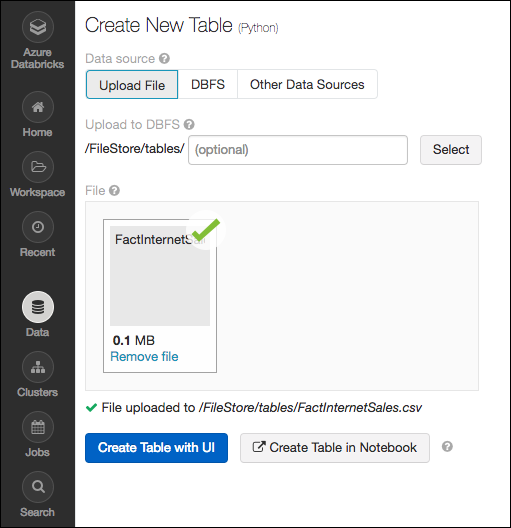
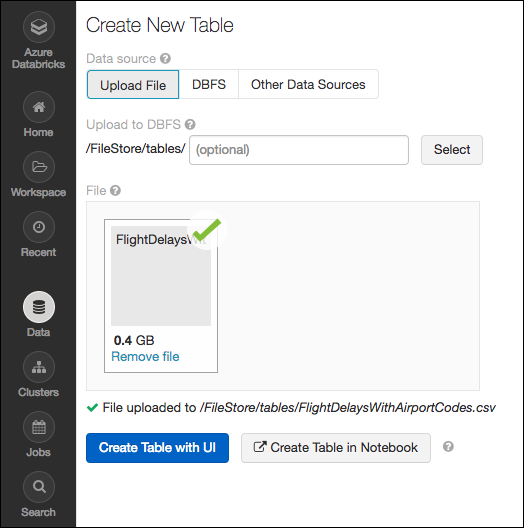
Updated Data sources article

diff --git a/data-sources/data-sources-overview.md b/data-sources/data-sources-overview.md
@@ -206,6 +206,42 @@ To create a mount point for an Azure Data Lake Store, complete the following:
     dbutils.fs.unmount("/mnt/<mount-name>")
     ```
 
+## Upload files directly into Azure Databricks tables
+
+Before moving on to the next Azure data source, we are going to highlight another way to get data directly into Azure Databricks: upload CSV files directly into Azure Databricks global tables.
+
+> Make sure your cluster is started before beginning the steps below, as it will be used to preview the data uploaded from the CSV file.
+
+1. Three sample files to be used for this can be found at <http://bit.ly/2wGAqrl>. Download the ZIP file, and extract the three files contained within:
+
+    - FlightDelaysWithAirportCodes.csv
+    - FlightWeatherWithAirportCodes.csv
+    - AirportCodeLocationLookupClean.csv
+
+2. Open your Azure Databricks workspace in the [Azure portal](https://portal.azure.com).
+
+3. In your workspace, select **Data** from the left-hand menu, select **Default** under Databases, and then select the plus (+) icon in the top right corner, next to Tables.
+
+    ![In the Azure Databricks workspace, Data is selected in the left-hand menu, and default is highlighted under Databases.](media/azure-databricks-workspace-databases.png "Azure Databricks databases")
+
+4. Select **Upload File** under Create New Table, and then drag and drop the `FlightDelaysWithAirportCodes.csv` file into the file area. (Note: Clicking Select to browse to the file won't work, because it attempts to find files in the /FileStore/tables/ directory in DBFS.)
+
+    ![In the Create New Table dialog in Azure Databricks, Upload File is selected and the FlightDelaysWithAirportCodes.csv file has been dropped in the file area.](media/azure-databricks-workspace-databases-create-new-table.png "Create new table")
+
+5. Select **Create Table with UI**, and then select your cluster to preview the table and select **Preview Table**.
+
+6. Change the Table Name to "flight_delays_with_airport_codes" (remove "_csv"), check the **First row is header** and **Infer schema** boxes, and then select **Create Table**.
+
+    > For the demo, we will use **Infer schema** to assign data types, but for real-world scenarios, you would want to evaluate each field, and the data type being assigned, and make sure they are correct for your data.
+
+    ![In the Specify Table Attributes section, the Table Name is specified as "flight_delays_with_airport_codes", and the First row is header and Infer schema check boxes are checked.](media/azure-databricks-workspace-create-table-specify-attributes.png "Specify Table Attributes")
+
+7. Select **Data** again from the left-hand menu, and you will notice **flight_delays_with_airport_codes** now listed under tables.
+
+8. Repeat steps 3 - 6 above for the `FlightWeatherWithAirportCodes.csv` and `AirportCodeLocationLookupClean.csv` files, changing the name in step 6 appropriately for each file.
+
+9. Each of the tables is now accessible from your cluster, as will be demonstrated below in the Azure Cosmos DB and SQL Data Warehouse examples below.
+
 ## Cosmos DB
 
 [Azure Cosmos DB](https://azure.microsoft.com/en-us/services/cosmos-db/) is Microsoft’s globally distributed, multi-model database. Azure Cosmos DB enables you to elastically and independently scale throughput and storage across any number of Azure’s geographic regions. It offers throughput, latency, availability, and consistency guarantees with comprehensive service level agreements (SLAs). Azure Cosmos DB provides APIs for the following data models, with SDKs available in multiple languages:
@@ -216,125 +252,147 @@ To create a mount point for an Azure Data Lake Store, complete the following:
 - Graph (Gremlin) API
 - Table API
 
+To demonstrate how to connect to Cosmos DB, and read and write data, you can following along in the step-by-step walk-through below.
+
 ### Prerequisites
 
-The following steps need to be performed prior to connecting Azure Databricks with Azure Databricks.
+Before continuing with the walk-through, you need the following:
+
+1. An Azure Cosmos DB in your subscription.
+2. Within your Cosmos DB instance, create a new database named "demo".
+3. Add a collection named "airport_code_location_lookup" to the "demo" database.
+4. You uploaded the files as described in [Upload files directly into Azure Databricks tables](#upload-files-directly-into-azure-databricks-tables).
+
+Once your Cosmos DB is provisioned, the following steps need to be performed prior to connecting Azure Databricks with Azure Databricks.
 
 - A Databricks workspace with an active cluster.
-- Prior to connecting your Azure Databricks instance with Azure Cosmos DB, you need to include the Azure Cosmos DB Spark JAR, by following the instructions provided with the [Azure Cosmos DB Spark Connector](https://github.com/Azure/azure-cosmosdb-spark). The connector requires Databricks Runtime 3.4 or higher.
-- Once you've obtained the JAR, upload the Java JAR or Scala JAR to Databricks by following the [Upload a Java JAR or Scala JAR](https://docs.azuredatabricks.net/user-guide/libraries.html#uploading-libraries) instructions.
+- Prior to connecting your Azure Databricks instance with Azure Cosmos DB, you need to include the Azure Cosmos DB Spark JAR, by following these instructions:
+  - Download the [azure-cosmosdb-spark_2.2.0_2.11 (1.11) library](http://repo1.maven.org/maven2/com/microsoft/azure/azure-cosmosdb-spark_2.2.0_2.11/1.1.1/azure-cosmosdb-spark_2.2.0_2.11-1.1.1-uber.jar) (The connector requires Databricks Runtime 3.4 or higher.)
+  - Upload the downloaded JAR files to Databricks following the instructions in [Upload a Java JAR or Scala JAR](https://docs.azuredatabricks.net/user-guide/libraries.html#uploading-libraries)
+  - [Attach the uploaded libraries](https://docs.azuredatabricks.net/user-guide/libraries.html#attach-libraries) to your Databricks cluster
+    > Learn more about the [Azure Cosmos DB Spark Connector](https://github.com/Azure/azure-cosmosdb-spark).
 
 ### Reading data from Cosmos DB
 
 To demonstrate how to create a connection, and enable querying against Cosmos DB, we've providing the following step-by-step walk-through.
 
-In order to query Cosmos DB, you need to first create a configuration object that contains the configuration information. If you are curious, read the [configuration reference](https://github.com/Azure/azure-cosmosdb-spark/wiki/Configuration-references) for details on all of the options.
+1. In order to query Cosmos DB, you need to first create a configuration object that contains the configuration information. If you are curious, read the [configuration reference](https://github.com/Azure/azure-cosmosdb-spark/wiki/Configuration-references) for details on all of the options.
 
-The core items you need to provide are:
+    The core items you need to provide are:
 
-- **Endpoint**: Your Cosmos DB url (i.e. <https://youraccount.documents.azure.com:443/>)
-- **Masterkey**: The primary or secondary key string for you Cosmos DB account
-- **Database**: The name of the database
-- **Collection**: The name of the collection that you wish to query
+    - **Endpoint**: Your Cosmos DB url (i.e. <https://your-cosmos-db.documents.azure.com:443/>)
+    - **Masterkey**: The primary or secondary key string for you Cosmos DB account
+    - **Database**: The name of the database
+    - **Collection**: The name of the collection that you wish to query
 
-1. In your Databricks workspace, create a new notebook and enter the following code to create the connection to the demo environment:
+2. In your Databricks workspace, create a new notebook and enter the following code to create the connection to the demo environment, substituting in your values for the tokenized components:
 
     ```python
     readConfig = {
-    "Endpoint" : "https://databricksdemo.documents.azure.com:443/",
[1 lines of base64/hex data omitted]
-    "Database" : "demo",
-    "Collection" : "documents",
-    "preferredRegions" : "West US",
-    "SamplingRatio" : "1.0",
-    "schema_samplesize" : "1000",
-    "query_pagesize" : "2147483647",
+        "Endpoint" : "https://<your-cosmos-db>.documents.azure.com:443/",
+        "Masterkey" : "<your-master-key>",
+        "Database" : "demo",
+        "Collection" : "airport_code_location_lookup",
+        "preferredRegions" : "<your-cosmos-db-region>",
+        "SamplingRatio" : "1.0",
+        "schema_samplesize" : "1000",
+        "query_pagesize" : "2147483647"
     }
     ```
 
-2. After providing the configuration, you can use the Read API to query the collection.
+3. After providing the configuration, you can use the Read API to query the collection.
 
     ```python
     # Connect via Spark connector to create Spark DataFrame
-    documents = spark.read.format("com.microsoft.azure.cosmosdb.spark").options(**readConfig).load()
-    display(documents)
+    airport_code_location_lookup = spark.read.format("com.microsoft.azure.cosmosdb.spark").options(**readConfig).load()
+    display(airport_code_location_lookup)
     ```
 
-3. Once you have a DataFrame connected to your Cosmos DB collection, you can register a temporary table and query it using Spark SQL just as you would any other DataFrame.
-
-    ```python
-    documents.createOrReplaceTempView("documents")
-    ```
-
-    ```sql
-    %sql
-    SELECT id, title FROM documents WHERE partitionId = "0"
-    ```
+4. At this point, there isn't any data in the `airport_code_location_lookup` collection, so you will get "OK" back as a response. Move on to the next section to write some data to Cosmos DB.
 
 ### Write data to Cosmos DB
 
-Now, let's expand on the example above, and look at what is involved in writing data back to Cosmos DB. By creating a DataFrame that contains the desired changes, you can use the Write API to save the changes back.
-
-> Spark DataFrames are immutable, so if you want to insert new rows into a Cosmos DB collection, you need to create a new DataFrame. If you want to both modify and insert, the connector supports the upsert operation.
+Expanding on the example above, let's look at what is involved in writing data to Cosmos DB. By creating a DataFrame that contains the desired data, you can use the Write API to save the data to Cosmos DB.
 
 To write to the Cosmos DB, do the following:
 
-1. In a new cell, create a new DataFrame that contains one new row, using the same schema as was acquired when you originally queried the collection. You can then create a union between the DataFrames, so an upsert can be performed that will result in the one new row being added. In the new row we create below, we only specify values for the partitionId and title fields. By setting all the other values to `None` we allow Cosmos DB to automatically set those values on the server side.
+1. First, insert a new cell into your notebook, and add the following code to set the `writeConfig` for your Cosmos DB instance. Take note of the `Upsert` parameter used here, which enables Upsert actions on the Cosmos DB side.
+
+    ```python
+    writeConfig = {
+        "Endpoint" : "https://<your-cosmos-db>.documents.azure.com:443/",
+        "Masterkey" : "<your-master-key>",
+        "Database" : "demo",
+        "Collection" : "airport_code_location_lookup",
+        "Upsert" : "true"
+    }
+    ```
+
+2. In a new cell, create a new DataFrame containing the data from the `airport_code_location_lookup` table you created in the [Upload files directly into Azure Databricks tables](#upload-files-directly-into-azure-databricks-tables) section above.
+
+    ```python
+    airportCodes = spark.sql("SELECT * FROM airport_code_location_lookup_clean")
+    ```
+
+3. Now, add another new cell, and add code to write the data from the `airportCodes` DatFrame to the `airport_code_location_lookup` collection in Cosmos DB.
+
+    ```python
+    airportCodes.write.format("com.microsoft.azure.cosmosdb.spark").options(**writeConfig).save()
+    ```
+
+4. You can now rerun the read query and view the data written to the table.
+
+    ```sql
+    airport_code_location_lookup = spark.read.format("com.microsoft.azure.cosmosdb.spark").options(**readConfig).load()
+    display(airport_code_location_lookup)
+    ```
+
+    ![Query results from the airport_code_location_lookup collection in Cosmos DB are displayed.](media/cosmos-db-airport-codes-query-results.png "Query results from Cosmos DB")
+
+5. Now, let's insert a new row into the `airport_code_location_lookup` table.
+
+6. Spark DataFrames are immutable, so if you want to insert new rows into a Cosmos DB collection, you need to create a new DataFrame. If you want to both modify and insert, the connector supports the upsert operation. You can then create a union between the DataFrames, so an upsert can be performed that will result in the one new row being added. In the new row we create below, we only specify values for the Airport, Airport_Id, Display_Airport_Name, Latitude, and Longitude fields. By setting all the other values to `None` we allow Cosmos DB to automatically set those values on the server side.
 
     ```python
     from pyspark.sql import Row
 
     newRows = [
-      Row(None,None,None,None,None,None,"0","This is a new row!")
+      Row("ZZZ","99999","Demo Airport","44.31666667","-75.89972222",None,None,None,None,None,None)
     ]
 
     parallelizeRows = spark.sparkContext.parallelize(newRows)
-    new_documents = spark.createDataFrame(parallelizeRows, documents.schema)
 
-    updated_documents = documents.union(new_documents)
-    display(updated_documents)
+    # Create a new DataFrame
+    new_airport_codes = spark.createDataFrame(parallelizeRows, airport_code_location_lookup.schema)
+
+    # Union the new DataFrame with the airport_code_location_lookup DataFrame
+    updated_airport_codes = airport_code_location_lookup.union(new_airport_codes)
+    display(updated_airport_codes)
     ```
 
-2. By default, the Connector will not allow writing to a collection that has documents already. In order to perform an upsert, the `overwrite` mode must specified.
+7. By default, the Connector will not allow writing to a collection that has documents already. In order to perform an upsert, the `overwrite` mode must specified.
 
     ```python
-    updated_documents.write.format("com.microsoft.azure.cosmosdb.spark").mode("overwrite").options(**writeConfig).save()
+    updated_airport_codes.write.format("com.microsoft.azure.cosmosdb.spark").mode("overwrite").options(**writeConfig).save()
     ```
 
-3. Now, you can the query our view again and see the updated row.
+8. Now, run the read command again to retrieve the newly inserted row from Cosmos DB, and write the results into a temporary view.
+
+    ```python
+    airport_codes = spark.read.format("com.microsoft.azure.cosmosdb.spark").options(**readConfig).load()
+    airport_codes.createOrReplaceTempView("airportCodes")
+    ```
+
+9. Finally, use SQL to query for the view for the newly added airport code.
 
     ```sql
     %sql
-    SELECT * FROM documents
+    SELECT * FROM airportCodes WHERE airport = 'ZZZ'
     ```
 
-## Upload files directly into Azure Databricks tables
+    ![The newly inserted airport code is highlighted in the query results.](media/cosmos-db-upsert-query-results.png "Query results")
 
-Before we move on to the final Azure data source, we are going to highlight another way to get data directly into Azure Databricks: upload CSV files directly into Azure Databricks global tables.
-
-Included in this repo is a [small sample set of data](./sample-data/FactInternetSales.csv) for you will use in the SQL Data Warehouse walk-through below. To prep for that, you are going to upload this file directly into an Azure Databricks table.
-
-    > Make sure your cluster is started before beginning the steps below, as it will be used to preview the data uploaded from the CSV file.
-
-1. Download the [sample CSV](./sample-data/FactInternetSales.csv), and then open your Azure Databricks workspace in the [Azure portal](https://portal.azure.com).
-
-2. In your workspace, select **Data** from the left-hand menu, select **Default** under Databases, and then select the plus (+) icon in the top right corner, next to Tables.
-
-    ![In the Azure Databricks workspace, Data is selected in the left-hand menu, and default is highlighted under Databases.](media/azure-databricks-workspace-databases.png "Azure Databricks databases")
-
-3. Select **Upload File** under Create New Table, and then drag and drop the `FactInternetSales.csv` file into the file area. (Note: Clicking Select to browse to the file won't work, because it attempts to find files in the /FileStore/tables/ directory in DBFS.)
-
-    ![In the Create New Table dialog in Azure Databricks, Upload File is selected and the FactInternetSales.CSV file has been dropped in the file area.](media/azure-databricks-workspace-databases-create-new-table.png "Create new table")
-
-4. Select **Create Table with UI**, and then select your cluster to preview the table and select **Preview Table**.
-
-5. Change the Table Name to "factinternetsales" (remove "_csv"), check the **First row is header** and **Infer schema** boxes, and then select **Create Table**.
-
-    > For the demo, we will use **Infer schema** to assign data types, but for real-world scenarios, you would want to evaluate each field, and the data type being assigned, and make sure they are correct for your data.
-
-    ![In the Specify Table Attributes section, the Table Name is specified as "factinternetsales", and the First row is header and Infer schema check boxes are checked.](media/azure-databricks-workspace-create-table-specify-attributes.png "Specify Table Attributes")
-
-6. Select **Data** again from the left-hand menu, and you will notice **factinternetsales** now listed under tables. It will accessible from your cluster, as we will demonstrate below in the SQL Data Warehouse example.
+> If you are following along in the walk-through, we are done with Azure Cosmos DB for this article, so it is recommended that you delete your Azure Cosmos DB instance to save on costs.
 
 ## SQL Data Warehouse
 
@@ -350,20 +408,21 @@ The SQL DW connector is more suited to ETL than to interactive queries, because 
 
 The following steps need to be performed prior to connecting Azure Databricks with SQL Data Warehouse.
 
-    1. Create an Azure Databricks workspace and cluster
-    2. Create a new Databricks notebook
-    3. Create a general purpose Azure Storage account
-    4. Provision an Azure SQL Data Warehouse
+1. Create an Azure Databricks workspace and cluster
+2. Create a new Databricks notebook
+3. Create a general purpose Azure Storage account
+4. Provision an Azure SQL Data Warehouse
+5. You uploaded the files as described in [Upload files directly into Azure Databricks tables](#upload-files-directly-into-azure-databricks-tables).
 
 There are two pre-requisites for connecting Azure Databricks with SQL Data Warehouse that apply to the SQL Data Warehouse:
 
-    1. You need to [create a database master key](https://docs.microsoft.com/en-us/sql/relational-databases/security/encryption/create-a-database-master-key) for the Azure SQL Data Warehouse
-    2. You need to ensure that the [Firewall](https://docs.microsoft.com/en-us/azure/sql-database/sql-database-firewall-configure#manage-firewall-rules-using-the-azure-portal) on the Azure SQL Server that contains your SQL Data Warehouse is configured to allow Azure services to connect (e.g., Allow access to Azure services is set to On).
+1. You need to [create a database master key](https://docs.microsoft.com/en-us/sql/relational-databases/security/encryption/create-a-database-master-key) for the Azure SQL Data Warehouse
+2. You need to ensure that the [Firewall](https://docs.microsoft.com/en-us/azure/sql-database/sql-database-firewall-configure#manage-firewall-rules-using-the-azure-portal) on the Azure SQL Server that contains your SQL Data Warehouse is configured to allow Azure services to connect (e.g., Allow access to Azure services is set to On).
 
 Azure Storage Blobs are used as the intermediary for the exchange of data between Azure Databricks and Azure SQL Data Warehouse. As a result of this, you will need to:
 
-    1. Acquire the Account Name and Account Key for that Storage Account
-    2. Create a container that will be used to store data used during the exchange (this must exists before you run any queries against SQL DW)
+1. Acquire the Account Name and Account Key for that Storage Account
+2. Create a container that will be used to store data used during the exchange (this must exists before you run any queries against SQL DW)
 
 ### Enabling Storage account access
 
@@ -383,16 +442,16 @@ In the steps above learned how to [mount a Blob storage account](#mount-azure-bl
     sql_dw_connection_string = "jdbc:sqlserver://databrick-demo-dw.database.windows.net:1433;database=databricks-sqldw;user=demouser@databrick-demo-dw;password=Abc!1234567890;encrypt=true;trustServerCertificate=false;hostNameInCertificate=*.database.windows.net;loginTimeout=30;"
     ```
 
-4. You are now going to read data from the `factinternetsales` table you created in the [Upload files directly into Azure Databricks tables](#upload-files-directly-into-azure-databricks-tables) section above. Add a new cell to your notebook, and run the following to create a DataFrame from the data in the CSV file:
+4. You are now going to read data from the `flight_delays_with_airport_codes` Databricks table you created in the [Upload files directly into Azure Databricks tables](#upload-files-directly-into-azure-databricks-tables) section above. Add a new cell to your notebook, and run the following to create a DataFrame from the data in the CSV file:
 
     ```python
-    df = spark.sql("SELECT * FROM FactInternetSales")
+    df = spark.sql("SELECT * FROM flight_delays_with_airport_codes")
     ```
 
 5. Insert another cell, and add the following code to create a new table in your SQL Data Warehouse from the DataFrame you created in the previous step. Be sure to replace `storage_account_name` and `storage_container_name` with appropriate values for your Blob storage account.
 
     ```python
-    new_table_name = "FactInternetSales"
+    new_table_name = "flight_delays_with_airport_codes"
     temp_dir_url = "wasbs://{}@{}.blob.core.windows.net/".format(storage_container_name, storage_account_name)
 
     df.write \
@@ -407,7 +466,7 @@ In the steps above learned how to [mount a Blob storage account](#mount-azure-bl
 6. With a table and data now in the SQL Data Warehouse, you can query directly against it, as follows:
 
     ```python
-    query = "SELECT * FROM FactInternetSales"
+    query = "SELECT * FROM flight_delays_with_airport_codes"
 
     df = spark.read \
       .format("com.databricks.spark.sqldw") \
@@ -419,17 +478,6 @@ In the steps above learned how to [mount a Blob storage account](#mount-azure-bl
 
     display(df)
     ```
-
-7. Once you have the data in a DataFrame, you can query against it as you would any other DataFrame, including visualizing it as follows:
-
-    ```python
-    summary = df.select("ExtendedAmount")
-    display(summary)
-    ```
-
-8. Select the Chart icon, and select a bar below the output table to see a graphical representation of the summary data.
-
-    ![A bar chart visualization is displayed for the data in the above query.](media/azure-databricks-notebook-visualization-bar-chart.png "Bar chart visualization")
 
 > If you are following along in the walk-through, we are done with Azure SQL Data Warehouse for this article, so it is recommended that you pause or delete your Azure SQL Data Warehouse instance to save on costs.
 
